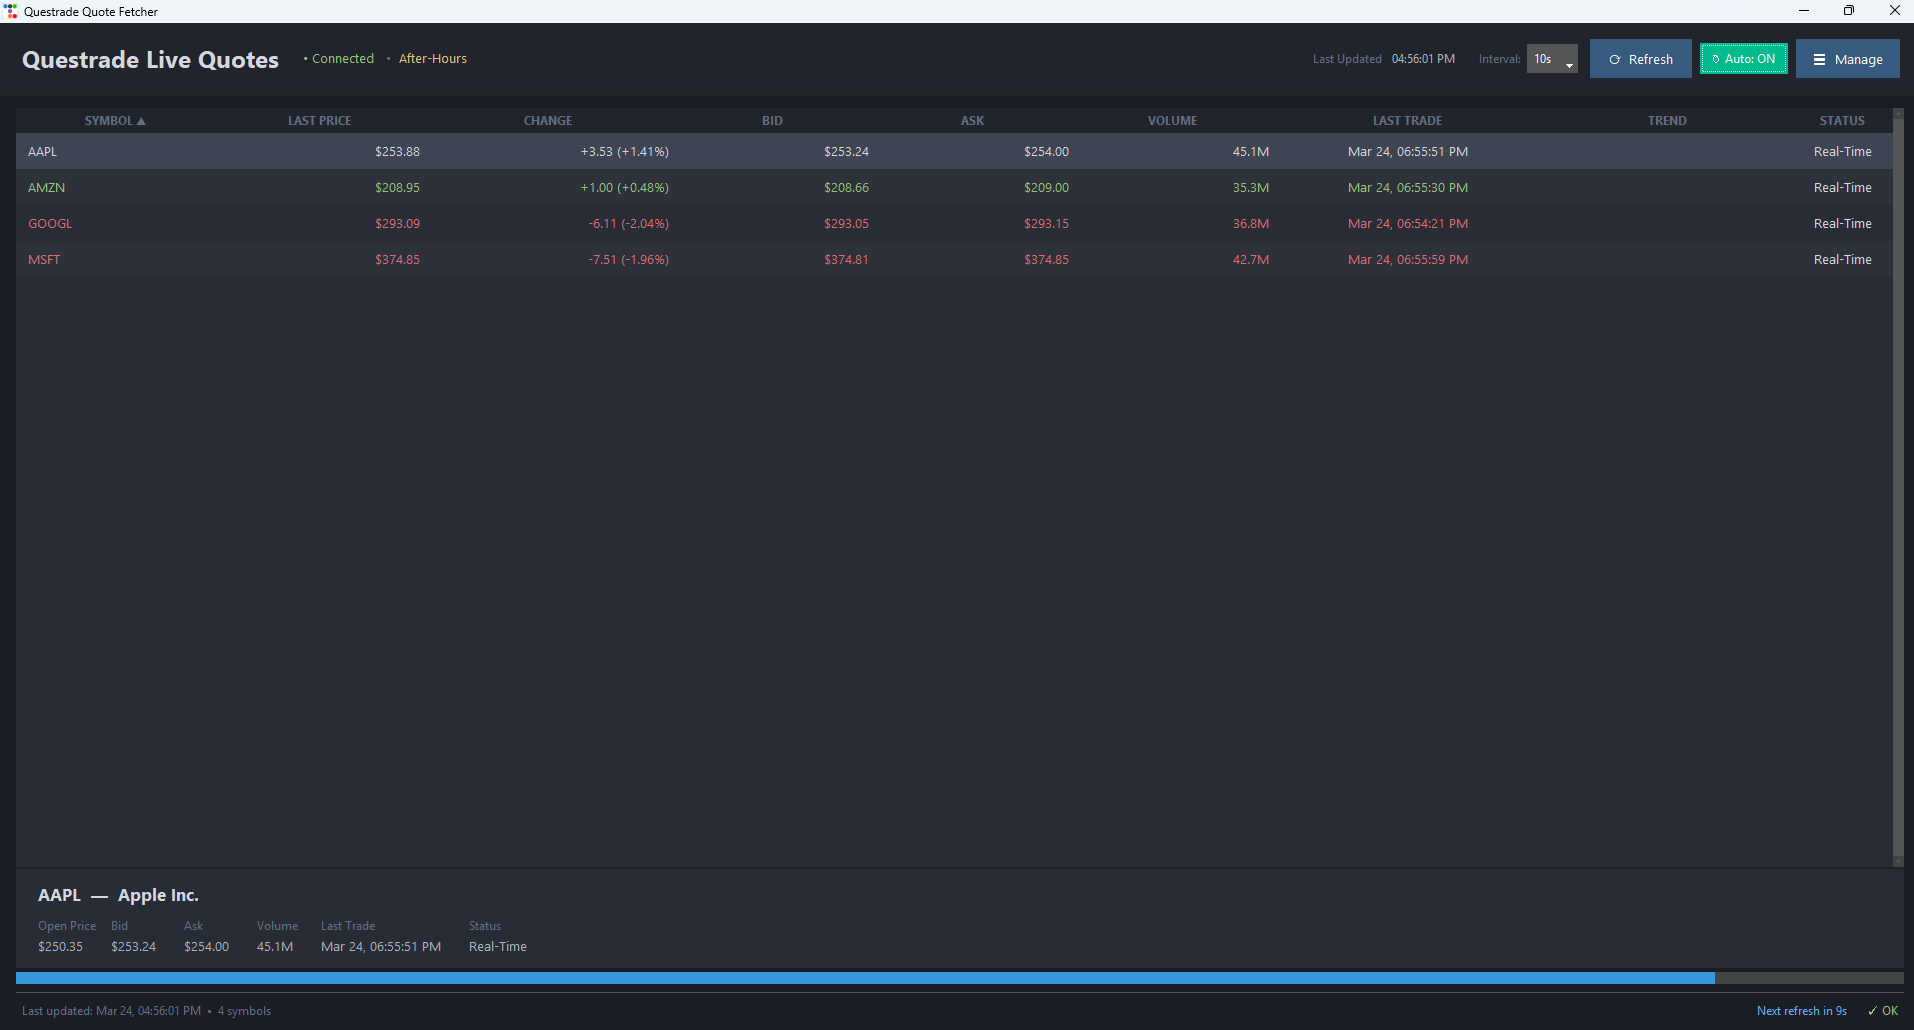
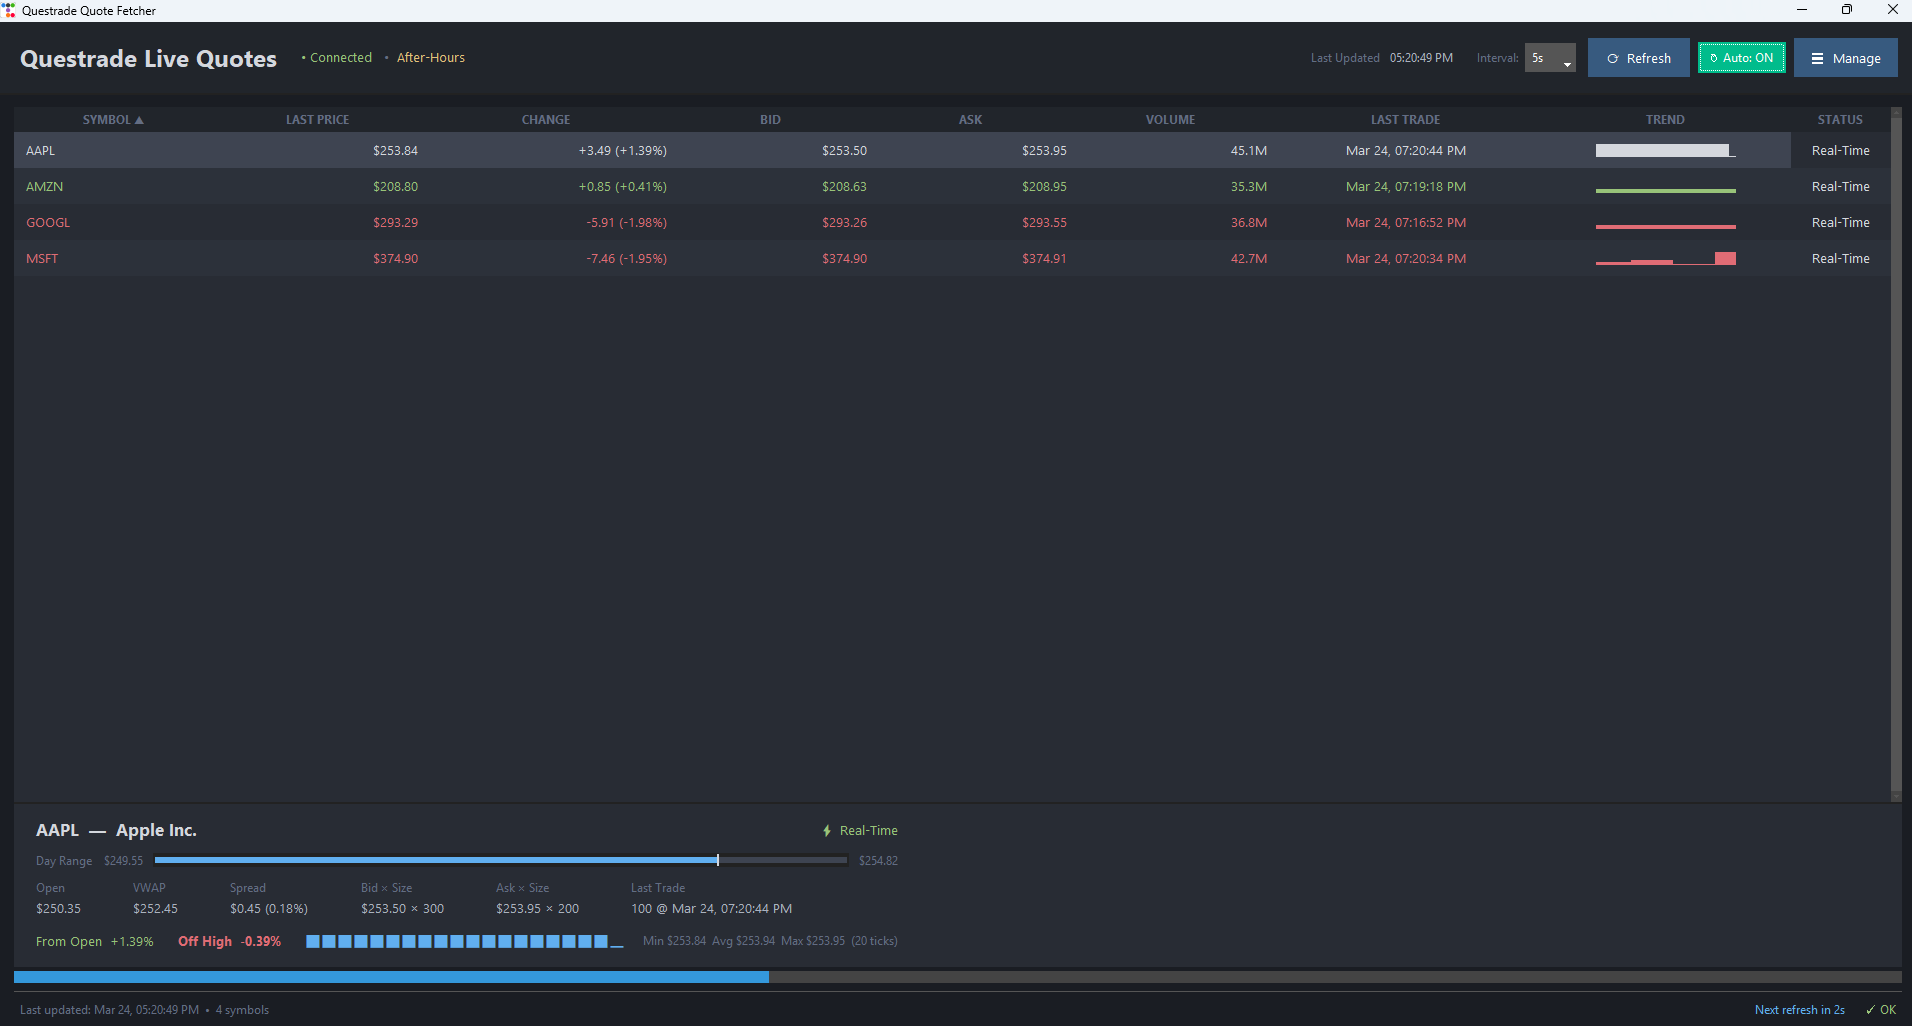
Enhance Quote model: add fields for high_price, low_price, vwap, bid_size, ask_size, and last_trade_size

diff --git a/src/questrade/gui.py b/src/questrade/gui.py
@@ -201,6 +201,7 @@ class QuoteApp(ttk.Window):
         self._retrieved_at: object = None
         self._price_history: dict[str, list[float]] = {}
         self._selected_symbol: str | None = None
+        self._programmatic_select = False
 
         self.configure(background=CLR_BG_DARK)
         # Style combobox dropdown list for dark theme.
@@ -367,6 +368,24 @@ class QuoteApp(ttk.Window):
             background=CLR_BG_CARD,
             foreground=CLR_RED,
             font=(FONT_FAMILY, 10, "bold"),
+        )
+        style.configure(
+            "DtlGrn.TLabel",
+            background=CLR_BG_CARD,
+            foreground=CLR_GREEN,
+            font=(FONT_FAMILY, 10),
+        )
+        style.configure(
+            "DtlRng.TLabel",
+            background=CLR_BG_CARD,
+            foreground=CLR_TEXT_DIM,
+            font=(FONT_FAMILY, 9),
+        )
+        style.configure(
+            "DtlSpk.TLabel",
+            background=CLR_BG_CARD,
+            foreground=CLR_ACCENT,
+            font=(FONT_FAMILY, 14),
         )
 
         # Dialog styles
@@ -607,25 +626,67 @@ class QuoteApp(ttk.Window):
         detail_inner = ttk.Frame(self._detail_outer, style="Dtl.TFrame", padding=(20, 12))
         detail_inner.pack(fill=X)
 
-        self._detail_symbol_lbl = ttk.Label(detail_inner, text="", style="DtlHd.TLabel")
-        self._detail_symbol_lbl.grid(row=0, column=0, columnspan=6, sticky=W, pady=(0, 8))
+        self._detail_fields: dict[str, ttk.Label | tk.Canvas] = {}
 
-        self._detail_fields: dict[str, ttk.Label] = {}
-        field_defs = [
-            ("Open Price", "open"),
-            ("Bid", "bid"),
-            ("Ask", "ask"),
-            ("Volume", "vol"),
-            ("Last Trade", "time"),
-            ("Status", "sts"),
+        # Row 0: Header (symbol + name) and status badge
+        hdr_frame = ttk.Frame(detail_inner, style="Dtl.TFrame")
+        hdr_frame.grid(row=0, column=0, columnspan=8, sticky="ew", pady=(0, 8))
+        hdr_frame.columnconfigure(0, weight=1)
+        self._detail_symbol_lbl = ttk.Label(hdr_frame, text="", style="DtlHd.TLabel")
+        self._detail_symbol_lbl.grid(row=0, column=0, sticky=W)
+        sts_lbl = ttk.Label(hdr_frame, text="", style="DtlV.TLabel")
+        sts_lbl.grid(row=0, column=1, sticky=E)
+        self._detail_fields["sts"] = sts_lbl
+
+        # Row 1: Day range bar
+        range_frame = ttk.Frame(detail_inner, style="Dtl.TFrame")
+        range_frame.grid(row=1, column=0, columnspan=8, sticky="ew", pady=(0, 8))
+        ttk.Label(range_frame, text="Day Range", style="DtlK.TLabel").pack(side=LEFT, padx=(0, 8))
+        range_lo_lbl = ttk.Label(range_frame, text="---", style="DtlRng.TLabel")
+        range_lo_lbl.pack(side=LEFT, padx=(0, 4))
+        self._detail_fields["range_lo"] = range_lo_lbl
+        range_canvas = tk.Canvas(
+            range_frame, height=14, width=300,
+            background=CLR_BG_DARK, highlightthickness=0,
+        )
+        range_canvas.pack(side=LEFT, padx=4, fill=X, expand=True)
+        self._detail_fields["range_canvas"] = range_canvas
+        range_hi_lbl = ttk.Label(range_frame, text="---", style="DtlRng.TLabel")
+        range_hi_lbl.pack(side=LEFT, padx=(4, 0))
+        self._detail_fields["range_hi"] = range_hi_lbl
+
+        # Row 2: Key metrics grid
+        metrics = [
+            ("Open", "open"),
+            ("VWAP", "vwap"),
+            ("Spread", "spread"),
+            ("Bid \u00d7 Size", "bid_depth"),
+            ("Ask \u00d7 Size", "ask_depth"),
+            ("Last Trade", "last_trade"),
         ]
-        for col_idx, (label_text, key) in enumerate(field_defs):
+        for col_idx, (label_text, key) in enumerate(metrics):
             ttk.Label(detail_inner, text=label_text, style="DtlK.TLabel").grid(
-                row=1, column=col_idx, sticky=W, padx=(0, 4),
+                row=2, column=col_idx, sticky=W, padx=(0, 4),
             )
             val_lbl = ttk.Label(detail_inner, text="---", style="DtlV.TLabel")
-            val_lbl.grid(row=2, column=col_idx, sticky=W, padx=(0, 24))
+            val_lbl.grid(row=3, column=col_idx, sticky=W, padx=(0, 20))
             self._detail_fields[key] = val_lbl
+
+        # Row 4: Computed stats + enlarged sparkline
+        stats_frame = ttk.Frame(detail_inner, style="Dtl.TFrame")
+        stats_frame.grid(row=4, column=0, columnspan=8, sticky="ew", pady=(8, 0))
+        from_open_lbl = ttk.Label(stats_frame, text="", style="DtlV.TLabel")
+        from_open_lbl.pack(side=LEFT, padx=(0, 20))
+        self._detail_fields["from_open"] = from_open_lbl
+        off_high_lbl = ttk.Label(stats_frame, text="", style="DtlV.TLabel")
+        off_high_lbl.pack(side=LEFT, padx=(0, 20))
+        self._detail_fields["off_high"] = off_high_lbl
+        spark_lbl = ttk.Label(stats_frame, text="", style="DtlSpk.TLabel")
+        spark_lbl.pack(side=LEFT, padx=(0, 8))
+        self._detail_fields["sparkline"] = spark_lbl
+        spark_stats_lbl = ttk.Label(stats_frame, text="", style="DtlK.TLabel")
+        spark_stats_lbl.pack(side=LEFT)
+        self._detail_fields["spark_stats"] = spark_stats_lbl
 
         # --- Countdown progress bar ---
         self._progress = ttk.Progressbar(
@@ -781,6 +842,7 @@ class QuoteApp(ttk.Window):
 
     def _sort_and_display(self) -> None:
         """Sort stored quotes and repopulate both treeviews."""
+        self._programmatic_select = True
         sorted_quotes = sorted(
             self._quotes,
             key=lambda q: _sort_key_for_column(q, self._sort_column),
@@ -840,6 +902,8 @@ class QuoteApp(ttk.Window):
                     self._show_detail_panel(self._selected_symbol)
                     break
 
+        self.after_idle(self._reset_programmatic_select)
+
     def _update_heading_text(self) -> None:
         """Update column headings to show sort indicator on the active column."""
         arrow = " \u25b2" if not self._sort_descending else " \u25bc"
@@ -869,7 +933,12 @@ class QuoteApp(ttk.Window):
 
     # --- Detail panel ---
 
+    def _reset_programmatic_select(self) -> None:
+        self._programmatic_select = False
+
     def _on_row_select(self, _event: tk.Event) -> None:  # type: ignore[type-arg]
+        if self._programmatic_select:
+            return
         selection = self._tree.selection()
         if not selection:
             return
@@ -912,6 +981,28 @@ class QuoteApp(ttk.Window):
             self._tree.selection_set(main_items[idx])
             self._tree.event_generate("<<TreeviewSelect>>")
 
+    def _draw_range_bar(self, canvas: tk.Canvas, low: float, high: float, current: float) -> None:
+        """Draw a day range bar on the canvas with a marker for the current price."""
+        canvas.delete("all")
+        canvas.update_idletasks()
+        w = canvas.winfo_width() or 300
+        h = canvas.winfo_height() or 14
+        pad = 2
+
+        # Track background
+        canvas.create_rectangle(pad, 4, w - pad, h - 4, fill=CLR_BORDER, outline="")
+
+        if high > low:
+            ratio = (current - low) / (high - low)
+            ratio = max(0.0, min(1.0, ratio))
+            fill_x = pad + ratio * (w - 2 * pad)
+
+            # Filled portion (low → current)
+            canvas.create_rectangle(pad, 4, fill_x, h - 4, fill=CLR_ACCENT, outline="")
+
+            # Current price marker (vertical line)
+            canvas.create_line(fill_x, 1, fill_x, h - 1, fill=CLR_TEXT_BRIGHT, width=2)
+
     def _show_detail_panel(self, symbol: str) -> None:
         quote = next((q for q in self._quotes if q.symbol == symbol), None)
         if quote is None:
@@ -920,19 +1011,102 @@ class QuoteApp(ttk.Window):
         from questrade.config import TARGET_SYMBOLS
         name = next((s.name for s in TARGET_SYMBOLS if s.symbol == symbol), symbol)
 
+        # Header
         self._detail_symbol_lbl.configure(text=f"{symbol}  \u2014  {name}")
-        self._detail_fields["open"].configure(text=_fmt_price(quote.open_price))
-        self._detail_fields["bid"].configure(text=_fmt_price(quote.bid_price))
-        self._detail_fields["ask"].configure(text=_fmt_price(quote.ask_price))
-        self._detail_fields["vol"].configure(text=_fmt_volume(quote.volume))
-        self._detail_fields["time"].configure(text=_fmt_time(quote.last_trade_time))
 
+        # Status badge
         if quote.is_halted:
-            self._detail_fields["sts"].configure(text="HALTED", style="DtlHlt.TLabel")
+            self._detail_fields["sts"].configure(text="\u26d4 HALTED", style="DtlHlt.TLabel")
         elif quote.delay > 0:
-            self._detail_fields["sts"].configure(text=f"Delayed {quote.delay}m", style="DtlV.TLabel")
+            self._detail_fields["sts"].configure(text=f"\u23f1 Delayed {quote.delay}m", style="DtlV.TLabel")
         else:
-            self._detail_fields["sts"].configure(text="Real-Time", style="DtlV.TLabel")
+            self._detail_fields["sts"].configure(text="\u26a1 Real-Time", style="DtlGrn.TLabel")
+
+        # Day range bar
+        lo, hi = quote.low_price, quote.high_price
+        cur = quote.last_trade_price
+        if lo is not None and hi is not None and cur is not None:
+            self._detail_fields["range_lo"].configure(text=_fmt_price(lo))
+            self._detail_fields["range_hi"].configure(text=_fmt_price(hi))
+            canvas = self._detail_fields["range_canvas"]
+            self._detail_outer.pack(fill=X, after=self._table_frame)
+            self.update_idletasks()
+            self._draw_range_bar(canvas, lo, hi, cur)  # type: ignore[arg-type]
+        else:
+            self._detail_fields["range_lo"].configure(text="---")
+            self._detail_fields["range_hi"].configure(text="---")
+            canvas = self._detail_fields["range_canvas"]
+            canvas.delete("all")  # type: ignore[union-attr]
+
+        # Key metrics
+        self._detail_fields["open"].configure(text=_fmt_price(quote.open_price))
+        self._detail_fields["vwap"].configure(text=_fmt_price(quote.vwap))
+
+        # Spread
+        if quote.bid_price is not None and quote.ask_price is not None:
+            spread = quote.ask_price - quote.bid_price
+            spread_pct = (spread / quote.ask_price * 100) if quote.ask_price else 0
+            self._detail_fields["spread"].configure(text=f"${spread:.2f} ({spread_pct:.2f}%)")
+        else:
+            self._detail_fields["spread"].configure(text="---")
+
+        # Bid × Size
+        if quote.bid_price is not None:
+            bid_txt = _fmt_price(quote.bid_price)
+            if quote.bid_size is not None:
+                bid_txt += f" \u00d7 {quote.bid_size:,}"
+            self._detail_fields["bid_depth"].configure(text=bid_txt)
+        else:
+            self._detail_fields["bid_depth"].configure(text="---")
+
+        # Ask × Size
+        if quote.ask_price is not None:
+            ask_txt = _fmt_price(quote.ask_price)
+            if quote.ask_size is not None:
+                ask_txt += f" \u00d7 {quote.ask_size:,}"
+            self._detail_fields["ask_depth"].configure(text=ask_txt)
+        else:
+            self._detail_fields["ask_depth"].configure(text="---")
+
+        # Last Trade (size @ time)
+        time_str = _fmt_time(quote.last_trade_time)
+        if quote.last_trade_size is not None:
+            self._detail_fields["last_trade"].configure(text=f"{quote.last_trade_size:,} @ {time_str}")
+        else:
+            self._detail_fields["last_trade"].configure(text=time_str)
+
+        # From Open %
+        if cur is not None and quote.open_price is not None and quote.open_price != 0:
+            from_open_pct = (cur - quote.open_price) / quote.open_price * 100
+            sign = "+" if from_open_pct >= 0 else ""
+            style = "DtlGrn.TLabel" if from_open_pct >= 0 else "DtlHlt.TLabel"
+            self._detail_fields["from_open"].configure(
+                text=f"From Open  {sign}{from_open_pct:.2f}%", style=style,
+            )
+        else:
+            self._detail_fields["from_open"].configure(text="From Open  ---", style="DtlV.TLabel")
+
+        # Off High %
+        if cur is not None and hi is not None and hi != 0:
+            off_high_pct = (cur - hi) / hi * 100
+            style = "DtlGrn.TLabel" if off_high_pct >= 0 else "DtlHlt.TLabel"
+            self._detail_fields["off_high"].configure(
+                text=f"Off High  {off_high_pct:.2f}%", style=style,
+            )
+        else:
+            self._detail_fields["off_high"].configure(text="Off High  ---", style="DtlV.TLabel")
+
+        # Enlarged sparkline + min/max/avg stats
+        history = self._price_history.get(symbol, [])
+        if len(history) >= 2:
+            self._detail_fields["sparkline"].configure(text=_fmt_sparkline(history))
+            avg = sum(history) / len(history)
+            self._detail_fields["spark_stats"].configure(
+                text=f"  Min {_fmt_price(min(history))}  Avg {_fmt_price(avg)}  Max {_fmt_price(max(history))}  ({len(history)} ticks)",
+            )
+        else:
+            self._detail_fields["sparkline"].configure(text="")
+            self._detail_fields["spark_stats"].configure(text="  Sparkline available after 2+ refreshes")
 
         self._detail_outer.pack(fill=X, after=self._table_frame)
 

diff --git a/src/questrade/models/quote.py b/src/questrade/models/quote.py
@@ -24,6 +24,12 @@ class Quote(BaseModel):
     ask_price: float | None         = Field(alias="askPrice")     # None outside market hours
     volume: int
     open_price: float | None        = Field(alias="openPrice", default=None)
+    high_price: float | None        = Field(alias="highPrice", default=None)
+    low_price: float | None         = Field(alias="lowPrice", default=None)
+    vwap: float | None              = Field(alias="VWAP", default=None)
+    bid_size: int | None            = Field(alias="bidSize", default=None)
+    ask_size: int | None            = Field(alias="askSize", default=None)
+    last_trade_size: int | None     = Field(alias="lastTradeSize", default=None)
     delay: int
     is_halted: bool                 = Field(alias="isHalted")
 
